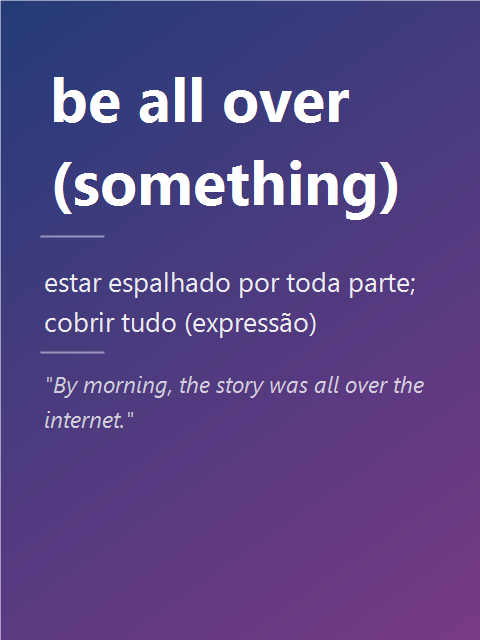
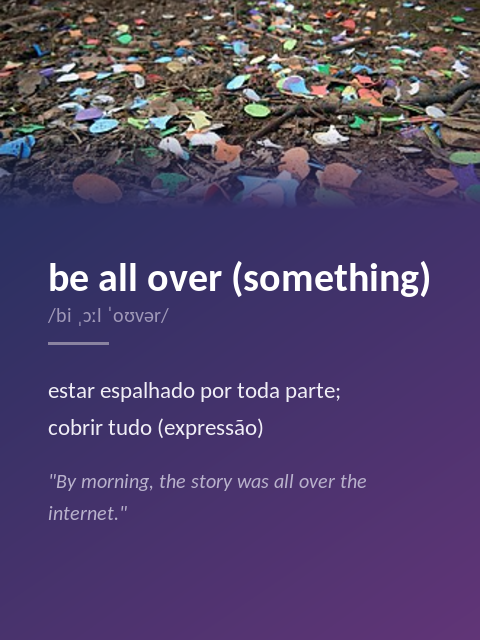
Põe foto e pronúncia nos cards do feed
Os cards passam a trazer a foto que o vault já guarda em
Static/Attachment/vocab, cortada numa faixa de 210px no topo e esmaecida
para o gradiente, e a transcrição em IPA logo abaixo do termo.

O campo ipa entra no terms.json dos 22 termos, puxado do _Inbox.md.

O gerador ganha ajuste automático: se a definição e o exemplo não couberem
nos 640px, o corpo encolhe em degraus até caber, em vez de vazar pela
borda. Termo sem foto no vault rende card só de texto, com o bloco
deslocado para cima.

Claude-Session: https://claude.ai/code/session_01FzEjbazFn5dLFUU8H6G29m

diff --git a/scripts/make_cards.py b/scripts/make_cards.py
@@ -1,9 +1,14 @@
 #!/usr/bin/env python3
 """Gera os cards PNG do tv-feed a partir de data/terms.json.
 
-Substitui o gerador em .NET quando ele nao esta disponivel: desenha o mesmo
-layout 480x640 com ImageMagick. So cria o que esta faltando, a menos que
-receba --force.
+Layout 480x640: faixa de foto no topo, com esmaecimento para o gradiente, e
+embaixo o termo, a pronuncia em IPA, a definicao e o exemplo.
+
+As fotos vem do vault (Static/Attachment/vocab). Um termo sem foto rende um
+card so de texto, com o bloco deslocado para cima.
+
+Desenha com ImageMagick, para rodar onde o gerador em .NET nao existe. So
+cria o que falta, a menos que receba --force.
 """
 import json
 import re
@@ -13,70 +18,99 @@ from pathlib import Path
 
 ROOT = Path(__file__).resolve().parent.parent
 CARDS = ROOT / "cards"
+VAULT_VOCAB = Path("/home/user/Personal-sync/Static/Attachment/vocab")
 
 W, H = 480, 640
 MARGIN = 48
+PHOTO_H, FADE_H = 210, 80
 TOP_LEFT, TOP_RIGHT, BOTTOM_LEFT = "#1b2f5b", "#333165", "#49336d"
 
-FONT_TERM = "Carlito-Bold"
-FONT_BODY = "Carlito-Regular"
-FONT_EX = "Carlito-Italic"
+F_TERM, F_BODY, F_EX = "Carlito-Bold", "Carlito-Regular", "Carlito-Italic"
+C_TERM, C_IPA, C_BODY, C_EX, C_RULE = "#ffffff", "#9f98b8", "#f0eef6", "#b9b2cc", "#8a83a0"
 
-PT_TERM, PT_BODY, PT_EX = 46, 23, 20
-LH_BODY, LH_EX = 38, 32
-
-COL_TERM = "#ffffff"
-COL_BODY = "#f0eef6"
-COL_EX = "#b9b2cc"
-COL_RULE = "#9a93b0"
+BOTTOM_PAD = 24  # respiro minimo abaixo da ultima linha
 
 
 def slugify(term):
-    """Mesma regra do scripts/build.js, senao o feed aponta para um arquivo que nao existe."""
+    """Mesma regra do scripts/build.js, senao o feed aponta para um arquivo inexistente."""
     return re.sub(r"\s+", "-", re.sub(r"[^\w\s-]", "", term)).lower()
 
 
 def wrap(text, limit):
     linhas, atual = [], ""
-    for palavra in text.split():
-        teste = f"{atual} {palavra}".strip()
+    for p in text.split():
+        teste = f"{atual} {p}".strip()
         if len(teste) <= limit:
             atual = teste
         else:
             if atual:
                 linhas.append(atual)
-            atual = palavra
+            atual = p
     if atual:
         linhas.append(atual)
     return linhas
 
 
-def build(term, definition, example, destino):
-    cmd = [
-        "convert", "-size", f"{W}x{H}", "xc:",
-        "-sparse-color", "barycentric",
-        f"0,0 {TOP_LEFT} {W-1},0 {TOP_RIGHT} 0,{H-1} {BOTTOM_LEFT}",
-    ]
+def layout(definition, example, pt_body, pt_ex, y0):
+    """Monta as linhas e devolve onde elas terminam, para saber se coube."""
+    # a largura em caracteres acompanha o corpo: fonte menor, mais cabe na linha
+    body = wrap(definition, int(36 * 23 / pt_body))
+    ex = wrap(f'"{example}"', int(40 * 20 / pt_ex)) if example else []
+    lh_body, lh_ex = int(pt_body * 1.65), int(pt_ex * 1.6)
+    y = y0 + len(body) * lh_body
+    if ex:
+        y += 18 + len(ex) * lh_ex
+    return body, ex, lh_body, lh_ex, y
 
-    y = 118
-    cmd += ["-font", FONT_TERM, "-pointsize", str(PT_TERM), "-fill", COL_TERM,
-            "-annotate", f"+{MARGIN}+{y}", term]
 
-    y += 38
-    cmd += ["-fill", COL_RULE, "-draw", f"rectangle {MARGIN-8},{y} {MARGIN+52},{y+2}"]
+def build(term, ipa, definition, example, photo, destino):
+    tem_foto = photo is not None
+    base_y = PHOTO_H + 42 if tem_foto else 104
 
-    y += 52
-    cmd += ["-font", FONT_BODY, "-pointsize", str(PT_BODY), "-fill", COL_BODY]
-    for linha in wrap(definition, 36):
+    # encolhe o texto ate caber na altura do card
+    for pt_body, pt_ex in ((23, 20), (21, 18), (19, 17), (18, 16)):
+        y_term = base_y
+        y_ipa = y_term + 50          # altura da caixa do termo em 40pt
+        y_rule = y_ipa + (40 if ipa else 10)
+        y0 = y_rule + 34
+        body, ex, lh_body, lh_ex, fim = layout(definition, example, pt_body, pt_ex, y0)
+        if fim <= H - BOTTOM_PAD:
+            break
+
+    cmd = ["convert", "-size", f"{W}x{H}", "xc:", "-sparse-color", "barycentric",
+           f"0,0 {TOP_LEFT} {W-1},0 {TOP_RIGHT} 0,{H-1} {BOTTOM_LEFT}"]
+
+    if tem_foto:
+        # foto cortada para preencher a faixa, esmaecendo no pe para o gradiente
+        cmd += ["(", str(photo), "-resize", f"{W}x{PHOTO_H}^",
+                "-gravity", "center", "-extent", f"{W}x{PHOTO_H}", ")",
+                "(", "-size", f"{W}x{PHOTO_H - FADE_H}", "xc:white",
+                "-size", f"{W}x{FADE_H}", "gradient:white-black",
+                "-append", ")",
+                "-gravity", "northwest", "-composite"]
+
+    cmd += ["-gravity", "northwest",
+            "-font", F_TERM, "-pointsize", "40", "-fill", C_TERM,
+            "-annotate", f"+{MARGIN}+{y_term}", term]
+
+    if ipa:
+        cmd += ["-font", F_BODY, "-pointsize", "20", "-fill", C_IPA,
+                "-annotate", f"+{MARGIN}+{y_ipa}", ipa]
+
+    cmd += ["-fill", C_RULE, "-draw", f"rectangle {MARGIN},{y_rule} {MARGIN+60},{y_rule+2}"]
+
+    y = y0
+    cmd += ["-font", F_BODY, "-pointsize", str(pt_body), "-fill", C_BODY]
+    for linha in body:
         cmd += ["-annotate", f"+{MARGIN}+{y}", linha]
-        y += LH_BODY
+        y += lh_body
 
-    if example:
-        y += 20
-        cmd += ["-font", FONT_EX, "-pointsize", str(PT_EX), "-fill", COL_EX]
-        for linha in wrap(f'"{example}"', 40):
+    if ex:
+        y += 18
+        cmd += ["-font", F_EX, "-pointsize", str(pt_ex), "-fill", C_EX]
+        for linha in ex:
             cmd += ["-annotate", f"+{MARGIN}+{y}", linha]
-            y += LH_EX
+            y += lh_ex
 
     cmd.append(str(destino))
     subprocess.run(cmd, check=True)
@@ -85,15 +119,22 @@ def build(term, definition, example, destino):
 def main():
     force = "--force" in sys.argv
     termos = json.loads((ROOT / "data" / "terms.json").read_text(encoding="utf-8").lstrip(""))
-    feitos = 0
+    feitos, sem_foto = 0, []
     for t in termos:
-        destino = CARDS / f"{slugify(t['term'])}.png"
+        slug = slugify(t["term"])
+        destino = CARDS / f"{slug}.png"
         if destino.exists() and not force:
             continue
-        build(t["term"], t.get("definition", ""), t.get("example", ""), destino)
-        print(f"  {destino.name}")
+        foto = VAULT_VOCAB / f"vocab-{slug}.jpg"
+        if not foto.exists():
+            foto, _ = None, sem_foto.append(t["term"])
+        build(t["term"], t.get("ipa", ""), t.get("definition", ""),
+              t.get("example", ""), foto, destino)
+        print(f"  {destino.name}{'' if foto else '  (sem foto)'}")
         feitos += 1
     print(f"{feitos} card(s) gerado(s)")
+    if sem_foto:
+        print(f"sem foto no vault: {', '.join(sem_foto)}")
 
 
 if __name__ == "__main__":
